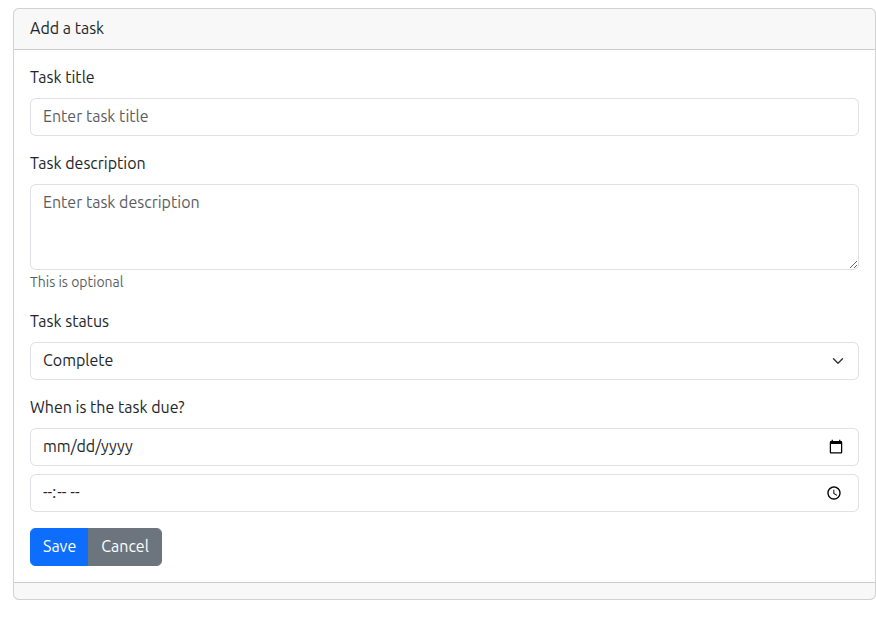
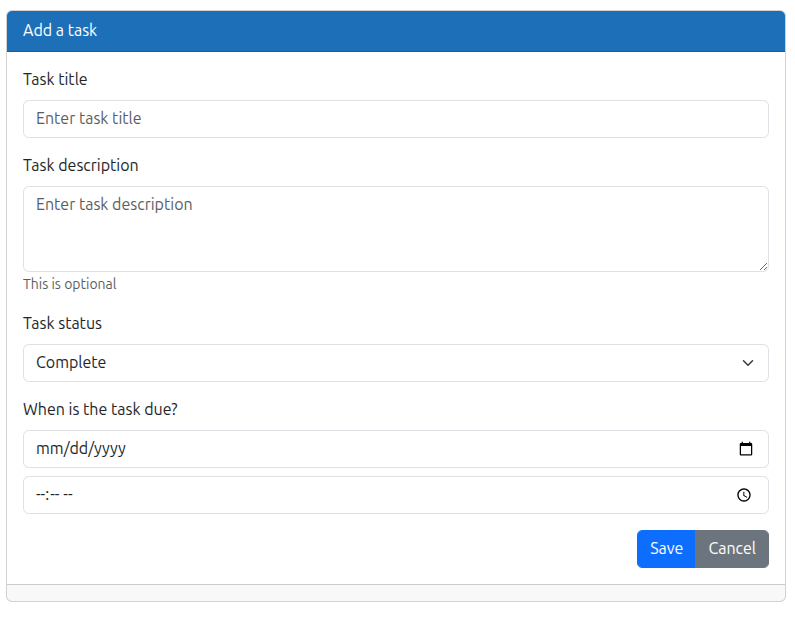
Some styling changes including using gov brand blue

diff --git a/app/routes/home.tsx b/app/routes/home.tsx
@@ -74,17 +74,17 @@ export default function Home() {
         <Container className="p-3" fluid>
             <Row>
                 <Col>
-                    <Navbar>
+                    <Navbar className="mb-2 ps-2 brand">
                         <Nav.Link href="" onClick={() => introJs.tour().start() } aria-label="Page tour button" >
                             <svg xmlns="http://www.w3.org/2000/svg" width="16" height="16" fill="currentColor" className="bi bi-info-circle" viewBox="0 0 16 16">
                                 <path d="M8 15A7 7 0 1 1 8 1a7 7 0 0 1 0 14m0 1A8 8 0 1 0 8 0a8 8 0 0 0 0 16"/>
                                 <path d="m8.93 6.588-2.29.287-.082.38.45.083c.294.07.352.176.288.469l-.738 3.468c-.194.897.105 1.319.808 1.319.545 0 1.178-.252 1.465-.598l.088-.416c-.2.176-.492.246-.686.246-.275 0-.375-.193-.304-.533zM9 4.5a1 1 0 1 1-2 0 1 1 0 0 1 2 0"/>
                             </svg>
                         </Nav.Link>
-                        <Navbar.Brand className="ms-2">
+                        <Navbar.Brand className="ms-2 brand">
                             Task Manager
                         </Navbar.Brand>
-                        <Pagination aria-label="Task pagination" className="mb-0 ms-auto" data-intro="Navigate through the pages of tasks with these controls." data-step="2">
+                        <Pagination aria-label="Task pagination" className="mb-0 me-2 ms-auto" data-intro="Navigate through the pages of tasks with these controls." data-step="2">
                             {first_link && 
                             <Pagination.First aria-label="First page" onClick={() => fetchTasks(first_link) } /> 
                             }
@@ -103,7 +103,10 @@ export default function Home() {
             </Row>
             <Row>
                 <Col>
-                    <Table data-intro="Your tasks. Select a row to edit a task." data-step="1" aria-label="table of tasks" hover>
+                    <Table 
+                        data-intro="Your tasks. Select a row to edit a task." data-step="1" 
+                        aria-label="table of tasks"
+                        hover>
                         <thead>
                             <tr>
                                 <th>Title</th>
@@ -126,7 +129,7 @@ export default function Home() {
             <Row>
                 <Col>
                     <Nav.Link href="task" data-intro="Add a new task." data-step="3" className="d-grid">
-                        <Button aria-label="Add button">Add new task</Button>
+                        <Button aria-label="Add button">Add task</Button>
                     </Nav.Link>  
                 </Col>
             </Row>

diff --git a/app/forms/task_forms.tsx b/app/forms/task_forms.tsx
@@ -71,7 +71,7 @@ export function NewTaskForm(props: any) {
                     className="mt-2" 
                     required />
             </FormGroup>
-            <ButtonGroup aria-label="Save and Submit buttons">
+            <ButtonGroup aria-label="Save and Submit buttons" className="float-right">
                 <Button variant="primary" type="submit">Save</Button>
                 <Button variant="secondary" onClick={() => navigate("/", { replace: true })}>Cancel</Button>
             </ButtonGroup>
@@ -127,9 +127,9 @@ export function EditDeleteTaskForm(props: any) {
                     </FormSelect>
                 </Col>
             </FormGroup>
-            <ButtonGroup aria-label="Save, Delete and Cancel buttons">
+            <ButtonGroup aria-label="Save, Delete and Cancel buttons" className="float-right">
                 <Button variant="primary" type="submit">Save</Button>
-                <Button className="ms-auto" variant="danger" onClick={() => handleDeleteShow()}>
+                <Button variant="danger" onClick={() => handleDeleteShow()}>
                     <svg xmlns="http://www.w3.org/2000/svg" width="16" height="16" fill="currentColor" className="bi bi-trash" viewBox="0 0 16 16">
                         <path d="M5.5 5.5A.5.5 0 0 1 6 6v6a.5.5 0 0 1-1 0V6a.5.5 0 0 1 .5-.5m2.5 0a.5.5 0 0 1 .5.5v6a.5.5 0 0 1-1 0V6a.5.5 0 0 1 .5-.5m3 .5a.5.5 0 0 0-1 0v6a.5.5 0 0 0 1 0z"/>
                         <path d="M14.5 3a1 1 0 0 1-1 1H13v9a2 2 0 0 1-2 2H5a2 2 0 0 1-2-2V4h-.5a1 1 0 0 1-1-1V2a1 1 0 0 1 1-1H6a1 1 0 0 1 1-1h2a1 1 0 0 1 1 1h3.5a1 1 0 0 1 1 1zM4.118 4 4 4.059V13a1 1 0 0 0 1 1h6a1 1 0 0 0 1-1V4.059L11.882 4zM2.5 3h11V2h-11z"/>

diff --git a/app/app.css b/app/app.css
@@ -1,15 +1,20 @@
 @import "tailwindcss";
 
 @theme {
-  --font-sans: "Inter", ui-sans-serif, system-ui, sans-serif,
-    "Apple Color Emoji", "Segoe UI Emoji", "Segoe UI Symbol", "Noto Color Emoji";
+	--font-sans: "Inter", ui-sans-serif, system-ui, sans-serif,
+		"Apple Color Emoji", "Segoe UI Emoji", "Segoe UI Symbol", "Noto Color Emoji";
 }
 
 html,
 body {
-  @apply bg-white dark:bg-gray-950;
+	@apply bg-white dark:bg-gray-950;
 
-  @media (prefers-color-scheme: dark) {
-    color-scheme: dark;
-  }
+	@media (prefers-color-scheme: dark) {
+		color-scheme: dark;
+	}
+}
+
+.brand {
+	background-color: #1d70b8 !important;
+	color: white ! important;
 }

diff --git a/app/routes/task.tsx b/app/routes/task.tsx
@@ -159,7 +159,7 @@ export default function Task({
     return (
         <div>
             <Card className="m-3">
-                <Card.Header>
+                <Card.Header className="brand">
                     {task_data.id === 0 ? "Add a task" : task_data.task_title }
                 </Card.Header>
                 <Card.Body>
